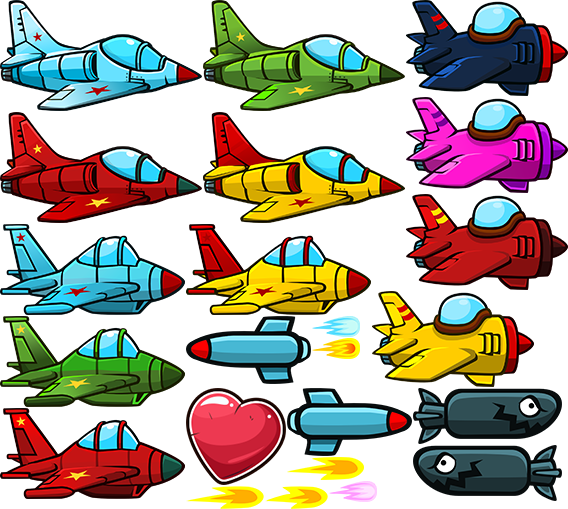
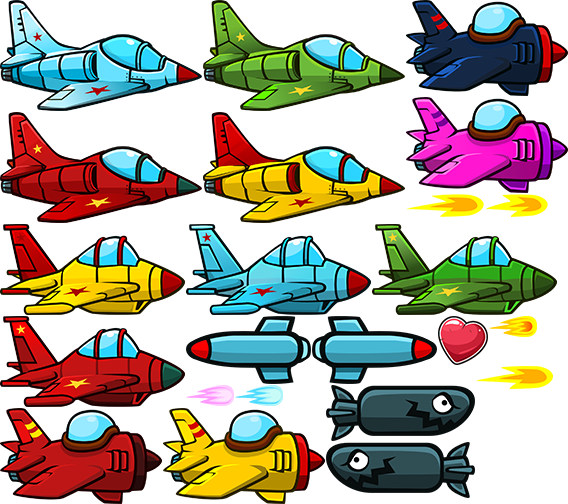
Life

diff --git a/airplane_trunk/project/client/release/wxgame/js/bundle.js b/airplane_trunk/project/client/release/wxgame/js/bundle.js
@@ -50,9 +50,21 @@
 	        if (this._sp.x == -10000)
 	            return;
 	        let otherSp = other.owner;
-	        let bBottom = otherSp.name == "Bottom";
-	        if (otherSp.name == "Top" || this._bInvincible)
+	        if (otherSp.name == "Top")
 	            return;
+	        if (otherSp.name == "Life") {
+	            if (this._iLife < 5) {
+	                this._setHpHandler.runWith(++this._iLife);
+	                otherSp.destroy();
+	            }
+	            return;
+	        }
+	        if (this._bInvincible)
+	            return;
+	        if (this._iLife > 0) {
+	            this._setHpHandler.runWith(--this._iLife);
+	            this.SetInvincible();
+	        }
 	        this.RigidBodyEnable(false);
 	        this._stopCbHandler.run();
 	        this._explosionSP.x = this._sp.x;
@@ -61,13 +73,14 @@
 	        Laya.SoundManager.playSound("sound/explosion.wav");
 	        Laya.timer.once(1000, this, this.HideExplosion);
 	        this._sp.x = -10000;
-	        if (!bBottom)
+	        if (otherSp.name != "Bottom")
 	            otherSp.destroy();
 	    }
 	    HideExplosion() {
 	        this._explosionSP.x = -10000;
 	    }
-	    Init(stopCbHandler, explosionSP, expolsionAni, bottom, bottom2) {
+	    Init(setHpHander, stopCbHandler, explosionSP, expolsionAni, bottom, bottom2) {
+	        this._setHpHandler = setHpHander;
 	        this._stopCbHandler = stopCbHandler;
 	        this._explosionSP = explosionSP;
 	        this._explosionAni = expolsionAni;
@@ -82,6 +95,7 @@
 	        this._bottomBox2.enabled = false;
 	    }
 	    _Reset() {
+	        this._iLife = 0;
 	        this._sp.x = 959;
 	        this._sp.y = 539;
 	        this.RigidBodyEnable(false);
@@ -363,7 +377,8 @@
 	        this._iDirection = info[1];
 	        this._sp.x = this._iFromX = this._iDirection == 1 ? PositionMgr.LeftX : PositionMgr.RightX;
 	        this._sp.y = this._iFromY = info[2];
-	        Laya.Tween.to(this._sp, { x: info[3] }, during, Laya.Ease.linearNone, Laya.Handler.create(this, this.ShowCompleted));
+	        let t = info.length > 4 ? info[4] : during;
+	        Laya.Tween.to(this._sp, { x: info[3] }, t, Laya.Ease.linearNone, Laya.Handler.create(this, this.ShowCompleted));
 	    }
 	    ShowCompleted() {
 	        this.BackCompleted();
@@ -409,6 +424,9 @@
 	        this._enemyDict["EnemyCL2"] = this.enemyPrefCL2;
 	        this._enemyDict["EnemyZL"] = this.enemyPrefZL;
 	        this._enemyDict["EnemyZR"] = this.enemyPrefZR;
+	        this._enemyDict["Life"] = this.life;
+	        this._hpArr = [this.hp1, this.hp2, this.hp3, this.hp4, this.hp5];
+	        this.SetHp(0);
 	        Laya.loader.load("cfg/cfg.bin", Laya.Handler.create(this, this.OnConfigComplete), null, Laya.Loader.BUFFER);
 	    }
 	    OnConfigComplete(buff) {
@@ -435,7 +453,7 @@
 	        this.explosionSp.scaleY = 2;
 	        this.explosionAni.interval = 100;
 	        this.startBtn.visible = true;
-	        this.mainRole.Init(new Laya.Handler(this, this.Stop), this.explosionSp, this.explosionAni, this.bottomSp, this.bottomSp2);
+	        this.mainRole.Init(new Laya.Handler(this, this.SetHp), new Laya.Handler(this, this.Stop), this.explosionSp, this.explosionAni, this.bottomSp, this.bottomSp2);
 	    }
 	    onUpdate() {
 	        if (this._bRunning) {
@@ -466,6 +484,11 @@
 	            this._iHighestScore = score;
 	            Laya.LocalStorage.setItem("score", score.toString());
 	            this.SetUserCloudStorage(score.toString());
+	        }
+	    }
+	    SetHp(hp) {
+	        for (let i = 0; i < 5; ++i) {
+	            this._hpArr[i].visible = i < hp;
 	        }
 	    }
 	    SetUserCloudStorage(data) {

diff --git a/airplane_trunk/project/client/src/script/GameControl.ts b/airplane_trunk/project/client/src/script/GameControl.ts
@@ -48,8 +48,7 @@ export default class GameControl extends Laya.Script
 	/** @prop {name: rankXBtn, type: Node} */
 	private rankXBtn: Laya.Button;
 	
-	//---------------------------------------------------------------
-
+	//--Enemy------------------------------------------------------------
 	/** @prop {name: enemyPrefAL1, type: Prefab} */
 	private enemyPrefAL1: Laya.Prefab;
 	/** @prop {name: enemyPrefAL2, type: Prefab} */
@@ -67,6 +66,21 @@ export default class GameControl extends Laya.Script
 	private enemyPrefZL: Laya.Prefab;
 	/** @prop {name: enemyPrefZR, type: Prefab} */
 	private enemyPrefZR: Laya.Prefab;
+	/** @prop {name: life, type: Prefab} */
+	private life: Laya.Prefab;
+
+	//--HP---------------------------------------------------------------
+	/** @prop {name: hp1, type: Node} */
+	private hp1: Laya.Sprite;
+	/** @prop {name: hp2, type: Node} */
+	private hp2: Laya.Sprite;
+	/** @prop {name: hp3, type: Node} */
+	private hp3: Laya.Sprite;
+	/** @prop {name: hp4, type: Node} */
+	private hp4: Laya.Sprite;
+	/** @prop {name: hp5, type: Node} */
+	private hp5: Laya.Sprite;
+	//-------------------------------------------------------------------
 
 	private mainRole: MainRole;
 	private background: Background;
@@ -78,6 +92,7 @@ export default class GameControl extends Laya.Script
 	private _t: number = 0;
 	private _enmeyTbl: ConfigTable;
 	private _enemyDict: { [key: string]: Laya.Prefab; };
+	private _hpArr: Laya.Sprite[];
 
 	private _iHighestScore: number;
 	private _scoreKey: string;
@@ -101,6 +116,10 @@ export default class GameControl extends Laya.Script
 		this._enemyDict["EnemyCL2"] = this.enemyPrefCL2;
 		this._enemyDict["EnemyZL"] = this.enemyPrefZL;
 		this._enemyDict["EnemyZR"] = this.enemyPrefZR;
+		this._enemyDict["Life"] = this.life;
+
+		this._hpArr = [this.hp1, this.hp2, this.hp3, this.hp4, this.hp5];
+		this.SetHp(0);
 
 		Laya.loader.load("cfg/cfg.bin", Laya.Handler.create(this, this.OnConfigComplete), null, Laya.Loader.BUFFER);
 	}
@@ -136,7 +155,7 @@ export default class GameControl extends Laya.Script
 		this.explosionSp.scaleY = 2;
 		this.explosionAni.interval = 100;
 		this.startBtn.visible = true;
-		this.mainRole.Init(new Laya.Handler(this, this.Stop), this.explosionSp, this.explosionAni, this.bottomSp, this.bottomSp2);
+		this.mainRole.Init(new Laya.Handler(this, this.SetHp), new Laya.Handler(this, this.Stop), this.explosionSp, this.explosionAni, this.bottomSp, this.bottomSp2);
 	}
 
 	onUpdate(): void
@@ -178,6 +197,14 @@ export default class GameControl extends Laya.Script
 			this._iHighestScore = score;
 			Laya.LocalStorage.setItem("score", score.toString());
 			this.SetUserCloudStorage(score.toString());
+		}
+	}
+
+	private SetHp(hp: number): void
+	{
+		for(let i: number = 0; i < 5; ++i)
+		{
+			this._hpArr[i].visible = i < hp;
 		}
 	}
 

diff --git a/airplane_trunk/project/client/src/script/MainRole.ts b/airplane_trunk/project/client/src/script/MainRole.ts
@@ -2,6 +2,7 @@ export default class MainRole extends Laya.Script
 {
 	private _sp: Laya.Sprite;
 	private _rigidbody: Laya.RigidBody;
+	private _setHpHandler: Laya.Handler;
 	private _stopCbHandler: Laya.Handler;
 	private _explosionSP: Laya.Sprite;
 	private _explosionAni: Laya.Animation;
@@ -25,11 +26,29 @@ export default class MainRole extends Laya.Script
 			return;
 
 		let otherSp: Laya.Sprite = other.owner as Laya.Sprite;
-		let bBottom = otherSp.name == "Bottom";
-		
-		if(otherSp.name == "Top" || this._bInvincible)
+
+		if(otherSp.name == "Top")
 			return;
-		
+
+		if(otherSp.name == "Life")
+		{
+			if(this._iLife < 5)
+			{
+				this._setHpHandler.runWith(++this._iLife);
+				otherSp.destroy();
+			}
+			return;
+		}
+
+		if(this._bInvincible)
+			return;
+
+		if(this._iLife > 0)
+		{
+			this._setHpHandler.runWith(--this._iLife);
+			this.SetInvincible();
+		}	
+
 		this.RigidBodyEnable(false);
 		this._stopCbHandler.run();
 		this._explosionSP.x = this._sp.x;
@@ -39,8 +58,8 @@ export default class MainRole extends Laya.Script
 		Laya.timer.once(1000, this, this.HideExplosion)
 		this._sp.x = -10000;
 
-		if(!bBottom)
-			otherSp.destroy();	
+		if(otherSp.name != "Bottom")
+			otherSp.destroy();
 	}
 
 	private HideExplosion(): void
@@ -48,8 +67,9 @@ export default class MainRole extends Laya.Script
 		this._explosionSP.x = -10000;
 	}
 
-	public Init(stopCbHandler: Laya.Handler, explosionSP: Laya.Sprite, expolsionAni: Laya.Animation, bottom: Laya.Sprite, bottom2: Laya.Sprite): void
+	public Init(setHpHander: Laya.Handler, stopCbHandler: Laya.Handler, explosionSP: Laya.Sprite, expolsionAni: Laya.Animation, bottom: Laya.Sprite, bottom2: Laya.Sprite): void
 	{
+		this._setHpHandler = setHpHander;
 		this._stopCbHandler = stopCbHandler;
 		this._explosionSP = explosionSP;
 		this._explosionAni = expolsionAni;
@@ -68,6 +88,7 @@ export default class MainRole extends Laya.Script
 
 	private _Reset(): void
 	{
+		this._iLife = 0;
 		this._sp.x = 959;
 		this._sp.y = 539;
 		this.RigidBodyEnable(false);

diff --git a/airplane_trunk/project/client/src/script/enemy/Enemy.ts b/airplane_trunk/project/client/src/script/enemy/Enemy.ts
@@ -25,7 +25,8 @@ export default class Enemy extends Laya.Script
 		this._iDirection = info[1];
 		this._sp.x = this._iFromX = this._iDirection == 1 ? PositionMgr.LeftX : PositionMgr.RightX;
 		this._sp.y = this._iFromY = info[2];
-		Laya.Tween.to(this._sp, {x: info[3]}, during, Laya.Ease.linearNone, Laya.Handler.create(this, this.ShowCompleted));
+		let t: number = info.length > 4 ? info[4] : during;
+		Laya.Tween.to(this._sp, {x: info[3]}, t, Laya.Ease.linearNone, Laya.Handler.create(this, this.ShowCompleted));
 	}
 
 	protected ShowCompleted(): void
